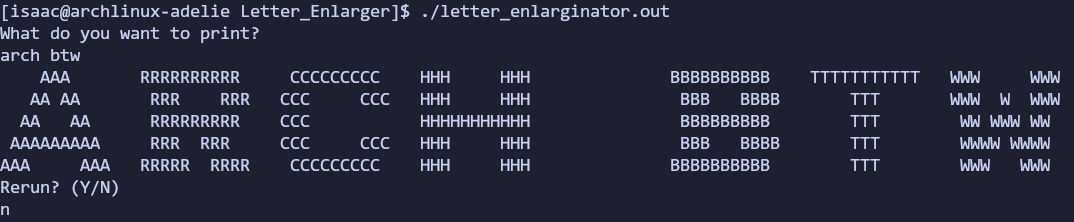
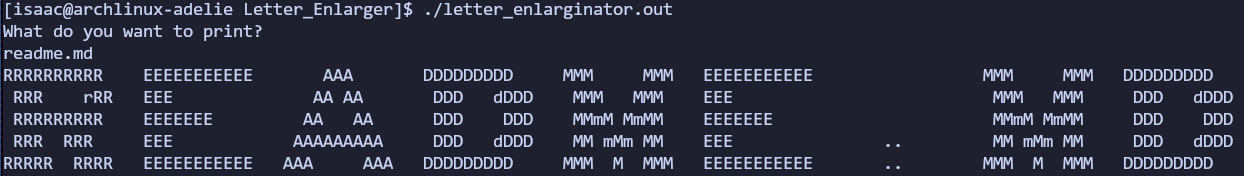
quality update, everything is a little better
added periods and commas, made letters more serif, removed broken and unnecessary internal loop. will look into making this into actual good code sometime, but vanity is the priority for the time being. after alpha-numeric and basic symbols are added, code quality will be implemented.

diff --git a/letters.h b/letters.h
@@ -12,45 +12,45 @@ const string A[5] =
      "AAA     AAA"};
 
 const string B[5] =
-    {"BBBBBBBBBB ",
-     " BBB   BBBB",
-     " BBBBBBBBB ",
+    {"BBBBBBBBBb ",
+     " BBb   BBBb",
+     " BBBBBBBBb ",
      " BBB   BBBB",
      "BBBBBBBBBB ",
 };
 
 const string C[5] =
     {" CCCCCCCCC ",
-     "CCC     CCC",
-     "CCC        ",
-     "CCC     CCC",
+     "CCC    cCCc",
+     "CCc        ",
+     "CCC    cCCc",
      " CCCCCCCCC "};
 
 const string D[5] =
     {"DDDDDDDDD  ",
+     " DDD   dDDD",
      " DDD    DDD",
-     " DDD    DDD",
-     " DDD    DDD",
+     " DDD   dDDD",
      "DDDDDDDDD  "};
 
 const string E[5] =
-    {"EEEEEEEEEE ",
+    {"EEEEEEEEEEE",
      "EEE        ",
      "EEEEEEE    ",
      "EEE        ",
-     "EEEEEEEEEE "};
+     "EEEEEEEEEEE"};
 
 const string F[5] =
-    {"FFFFFFFFFF ",
-     "FFF        ",
+    {"FFFFFFFFFFF",
+     "FFF       F",
      "FFFFFF     ",
      "FFF        ",
      "FFF        "};
 
 const string G[5] =
-    {" GGGGGGGGG ",
+    {" GGGGGGGGg ",
      "GGG        ",
-     "GG     GGGG",
+     "GG     gGGG",
      "GGG      GG",
      " GGGGGGGGG "};
 
@@ -69,94 +69,94 @@ const string I[5] =
      "IIIIIIIIIII"};
 
 const string J[5] =
-    {"  JJJJJJJJJ",
-     "     JJJ   ",
-     "     JJJ   ",
-     "JJ   JJJ   ",
-     " JJJJJJ    "};
+    {"JJJJJJJJJJJ",
+     "    JJJ    ",
+     "    JJJ    ",
+     "JJ  JJJ    ",
+     " JJJJJ     "};
 
 const string K[5] =
-    {"KK     KK",
-     "KK   KK  ",
-     "KK KK   ",
-     "KK    KK  ",
-     "KK      KK"};
+    {"KKKK   kKKk",
+     " KK  kKKk  ",
+     " KKKKKk    ",
+     " KK  kKKk  ",
+     "KKKK   kKKk"};
 
 const string L[5] =
-    {"LLL        ",
-     "LLL        ",
-     "LLL        ",
-     "LLL        ",
+    {"LLLLL      ",
+     " LLL       ",
+     " LLL       ",
+     " LLL      L",
      "LLLLLLLLLLL"};
 
 const string M[5] =
     {"MMM     MMM",
-     "MMMMM MMMMM",
-     "MM MMMMM MM",
-     "MM  MMM  MM",
-     "MM   M   MM"};
+     " MMM   MMM ",
+     " MMmM MmMM ",
+     " MM mMm MM ",
+     "MMM  M  MMM"};
 
 const string N[5] =
-    {"NNN     NNN",
-     "NNNNN   NNN",
-     "NNN NNN NNN",
-     "NNN   NNNNN",
-     "NNN     NNN"};
+    {"NNN    NNNN",
+     " NNNN   NN ",
+     " NN nNn NN ",
+     " NN   NNNN ",
+     "NNNN    NNN"};
 
 const string O[5] =
     {" OOOOOOOOO ",
-     "OOO     OOO",
+     "OOo     oOO",
      "OO       OO",
-     "OOO     OOO",
+     "OOo     oOO",
      " OOOOOOOOO "};
 
 const string P[5] =
     {"PPPPPPPPPP ",
-     " PPP   PPPP",
+     " PPP    pPP",
      " PPPPPPPPP ",
      " PPP       ",
      "PPPPP      "};
 
 const string Q[5] =
     {" QQQQQQQQQ ",
-     "QQQ     QQQ",
-     "QQ   QQ  QQ",
-     "QQQ   QQ QQ",
-     " QQQQQ QQQ "};
+     "QQq     qQQ",
+     "QQ   qQ  QQ",
+     "QQq   qQ qQ",
+     " QQQQQ QQ  "};
 
 const string R[5] =
     {"RRRRRRRRRR ",
-     " RRR    RRR",
+     " RRR    rRR",
      " RRRRRRRRR ",
      " RRR  RRR  ",
      "RRRRR  RRRR"};
 
 const string S[5] =
-    {" SSSSSSSSSS",
-     "SS         ",
-     " SSSSSSSSS ",
-     "         SS",
-     "SSSSSSSSSS "};
+    {" sSSSSSSSSs",
+     "SSs        ",
+     " sSSSSSSSs ",
+     "        sSS",
+     "sSSSSSSSSs "};
 
 const string T[5] =
     {"TTTTTTTTTTT",
+     "T   TTT   T",
      "    TTT    ",
      "    TTT    ",
-     "    TTT    ",
-     "    TTT    "};
+     "   TTTTT   "};
 
 const string U[5] =
     {"UUUU   UUUU",
-     "UUUU   UUUU",
-     "UUUU   UUUU",
-     "UUUUUUUUUUU",
-     "  UUUUUUU  "};
+     " UUU   UUU ",
+     " UUU   UUU ",
+     " UUU   UUU ",
+     "  UUUuUUU  "};
 
 const string V[5] =
     {"VVV     VVV",
      " VVV   VVV ",
      "  VVV VVV  ",
-     "   VVVVV   ",
+     "   VVvVV   ",
      "    VVV    "};
 
 const string W[5] =
@@ -167,24 +167,24 @@ const string W[5] =
      " WWW   WWW "};
 
 const string X[5] =
-    {"XXX     XXX",
-     "  XX   XX  ",
+    {"XXXx   xXXX",
+     "  XXx xXX  ",
      "    XXX    ",
-     "  XX   XX  ",
-     "XXX     XXX"};
+     "  XXx xXX  ",
+     "XXXx   xXXX"};
 
 const string Y[5] =
     {"YYYY   YYYY",
      "  YYY YYY  ",
      "    YYY    ",
      "    YYY    ",
-     "    YYY    "};
+     "   YYYYY   "};
 
 const string Z[5] =
     {"ZZZZZZZZZZZ",
-     "      ZZZ  ",
-     "    ZZ     ",
-     " ZZZ       ",
+     "Z    zZZz  ",
+     "   zZZz    ",
+     " zZZz     Z",
      "ZZZZZZZZZZZ"};
 
 const string space[5] =
@@ -201,4 +201,18 @@ const string endash[5] =
      "           ",
      "           "};
 
+const string period[5]
+    {"           ",
+     "           ",
+     "           ",
+     "    ..     ",
+     "    ..     "};
+
+
+const string comma[5]
+    {"           ",
+     "           ",
+     "           ",
+     "    ,,     ",
+     "   ,,,     "};
 #endif // !letters

diff --git a/letter_functions.h b/letter_functions.h
@@ -115,6 +115,12 @@ void printLine(char ch, int line) {
         case '-':
             cout << endash[line];
             break;
+        case '.':
+            cout << period[line];
+            break;
+        case ',':
+            cout << comma[line];
+            break;
         // this part breaks because em dash is a wide character
         // need to refactor if i really want to make every single easy character, or add more wide char
         // case '—':
@@ -124,7 +130,7 @@ void printLine(char ch, int line) {
             cout << endash[line];
   }
 
-  if (ch != ' ') { // normal space between non-whitespace characters (kerning)
+  if (ch != ' ') { // normal space between non-whitespace characters (kerning purposes)
       cout << "   ";
   }
 }

diff --git a/main.cc b/main.cc
@@ -5,23 +5,11 @@ using namespace std;
 
 int main(int argc, char const *argv[])
 {
-    bool rerun = true;
-    char ch;
     string phrase;
 
-    while (rerun == true)
-    {
-        cout << "What do you want to print?" << endl;
-        getline(cin, phrase);
-        printPhraseBig(phrase);
-
-        cout << "Rerun? (Y/N)" << endl;
-        cin >> ch;
-        if (toupper(ch) != 'Y')
-        {
-            rerun = false;
-        }
-    }
+    cout << "What do you want to print?" << endl;
+    getline(cin, phrase);
+    printPhraseBig(phrase);
 
     return 0;
 }
